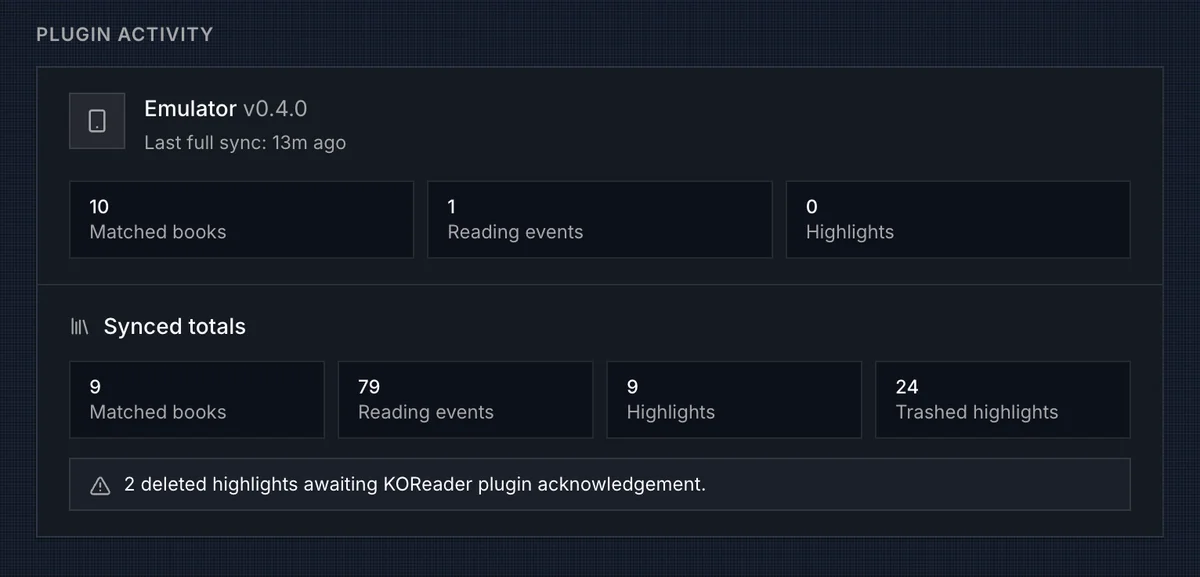
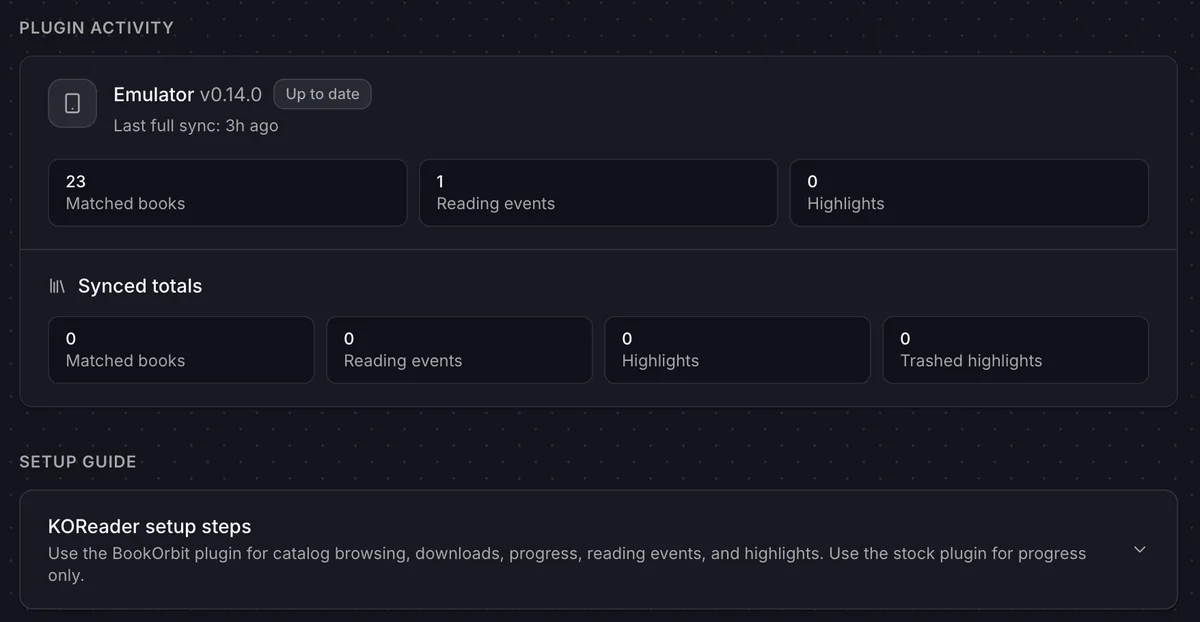
docs(koreader,hardcover): add new feature screenshots and update content
koreader: add Library Browser section documenting catalog browsing (root,
book list, book detail), update plugin menu table with Browse library and
update checker, refresh all screenshots to current UI, add Highlight Sync
and Reading Log screenshots showing KOReader source badges, Approximate
annotation flag, and session breakdown bar.

hardcover: document Book sync scope setting (all eligible vs selected
only), add Pull Read Status section with preview workflow and category
table (Ready/Review/Conflicts/Unmatched/Skipped), fix Skipped and
Conflicts descriptions to match code behavior, add troubleshooting rows
for new features.

diff --git a/docs/koreader.md b/docs/koreader.md
@@ -2,11 +2,11 @@
 
 KOReader sync starts with a small account in BookOrbit, then becomes a background conversation between the reader and the library. The device reports where you are, what you read, and which highlights changed. BookOrbit matches that back to the book file, updates the book page, and keeps enough state to send newer changes back on the next sync.
 
-Use the BookOrbit KOReader plugin when you want progress, reading sessions, highlights, annotation deletes, ratings, and read status.
+Use the BookOrbit KOReader plugin when you want progress, reading sessions, highlights, annotation deletes, ratings, read status, and catalog browsing directly on the device.
 
 ## The Account
 
-<img src="/images/koreader/settings-status.webp" alt="KOReader Sync status card with enabled progress sync and synced device counts" class="img-lg img-bordered" />
+<img src="/images/koreader/settings-status.webp" alt="KOReader Sync settings page showing progress sync toggle, credentials, sync server URL, plugin download, and paired device" class="img-lg img-bordered" />
 
 The KOReader account is separate from the normal BookOrbit login. A user with `koreader_sync` creates one username and password in **Settings > Integrations > KOReader**. That account belongs to the same BookOrbit user, so every sync request is still scoped to that user's accessible libraries and permissions.
 
@@ -20,9 +20,7 @@ If the BookOrbit user is disabled or loses `koreader_sync`, the KOReader credent
 
 ## Installing The Plugin
 
-<img src="/images/koreader/settings-setup.webp" alt="KOReader Sync setup area with sync server URL, plugin download, and synced device" class="img-lg img-bordered" />
-
-After credentials exist, BookOrbit shows the sync server URL and a **Download Plugin** button. The download is a preconfigured `bookorbit.koplugin.zip`; it includes the BookOrbit origin, username, and KOReader-compatible password key so you do not have to type them on the device.
+After credentials exist, the KOReader Sync page shows the sync server URL and a **Download Plugin** button. The download is a preconfigured `bookorbit.koplugin.zip`; it includes the BookOrbit origin, username, and KOReader-compatible password key so you do not have to type them on the device. The page also shows the latest available plugin version and notes that device-side updates can be applied from within KOReader once the plugin is installed.
 
 Install it like a normal KOReader plugin:
 
@@ -50,20 +48,47 @@ When a book matches, the plugin can send progress, page statistics, book state, 
 For reliable sync, put the BookOrbit-managed copy of the book on the KOReader device. A manually copied file can still match if it produces the same KOReader fingerprint BookOrbit scanned, but a converted, edited, re-zipped, or metadata-rewritten copy will usually have a different identity and will not sync to that BookOrbit book.
 :::
 
-<img src="/images/koreader/koreader-plugin-settings.webp" alt="KOReader BookOrbit plugin panel with auto sync, two-way highlight sync, periodic sync, and manual sync actions" class="img-md img-bordered" />
+<img src="/images/koreader/koreader-plugin-settings.webp" alt="KOReader BookOrbit plugin menu showing Browse library, auto sync, highlight sync, periodic sync, manual sync actions, and plugin version" class="img-md img-bordered" />
 
-The device-side panel is where you control live sync for the open book and start manual syncs.
+The device-side panel controls both sync behavior and catalog access. The top of the menu has account-level actions; the sync options below apply to the currently open book.
 
 | Option | Behavior |
 |--------|----------|
+| **Browse library** | Opens the catalog browser to navigate, search, and download books from your BookOrbit library without leaving KOReader. |
 | **Auto sync this book** | Pulls progress when a book opens. On close or suspend, uploads the open book's progress, highlights, status, rating, and reading time. |
 | **Two-way highlight sync** | Also applies BookOrbit highlight, note, and delete changes back to KOReader. When off, local KOReader highlight changes still upload. |
 | **Periodically sync every # pages** | Pushes progress after the configured number of page turns, once reading has been idle briefly. Set it to `0` to disable page-turn progress pushes. |
 | **Sync behavior** | Sets separate choices for **Sync to a newer state** and **Sync to an older state**: apply silently, prompt first, or never move. |
 | **Sync this book now** | Runs the full open-book sync immediately: progress, reading events, highlights, status, and rating. |
 | **Sync all books now** | Runs a manual device sweep across matched books from KOReader history, statistics, and sidecar files. |
+| **Installed plugin: vX.X.X (Check for update)** | Shows the installed version and checks BookOrbit for a newer plugin package. A tap downloads and applies the update in place. |
 
 Full-library sweeps are manual. They are useful after installing the plugin on a device that already has reading history, but they still only upload files KOReader can fingerprint and BookOrbit can match. If an old sidecar file reports stale progress, BookOrbit records the device state without rolling the shared book progress backward.
+
+## Library Browser
+
+<img src="/images/koreader/catalog-root.webp" alt="KOReader BookOrbit catalog browser showing Continue reading, Recently added, Libraries, Collections, SmartScopes, Authors, Series, All Books, and On device" class="img-md img-bordered" />
+
+**Browse library** opens a native catalog browser connected to your BookOrbit library. It authenticates with the same KOReader credentials and lets you navigate, search, and download books entirely from within KOReader.
+
+The root view lists entry points: Continue reading, Recently added, Libraries, Collections, SmartScopes, Authors, Series, All Books, and On device. Tap any row to open that section. The magnifier in the title bar opens a search box for full-text title and author search across your library.
+
+<img src="/images/koreader/catalog-books.webp" alt="KOReader BookOrbit catalog mosaic grid showing book covers with sort and view options menu open" class="img-md img-bordered" />
+
+Tap the menu icon in the title bar of a book list to open view and sort controls.
+
+| Control | What it does |
+|---------|--------------|
+| **Sort** | Choose from Title, Author, Recently added, Recently updated, Recently read, or Series order. |
+| **Reverse** | Flip the sort direction. |
+| **Read status** | Filter by reading, finished, abandoned, or unread. |
+| **Format** | Filter by file format. |
+| **View: Mosaic / List** | Switch between cover grid and compact list. |
+| **Grid size** | Adjust the number of columns and rows in the mosaic. |
+
+<img src="/images/koreader/catalog-detail.webp" alt="KOReader BookOrbit catalog book detail page showing cover, metadata, and Download button" class="img-md img-bordered" />
+
+Tap a book to open its detail page with the cover, author, series, year, publisher, page count, library, genres, and description. Tap **Download** to save the file to the device. The title-bar menu on the detail page also lets you set the read status without opening a browser. The **On device** category in the root menu lists books already downloaded so you can find local files at a glance.
 
 ## Three-Way Sync
 
@@ -75,9 +100,9 @@ Kobo-side return sync depends on Kobo settings and KEPUB delivery. If Kobo is se
 
 ## What Comes Back To BookOrbit
 
-<img src="/images/koreader/settings-activity.webp" alt="KOReader Plugin Activity section with matched books, reading events, highlights, and pending delete count" class="img-lg img-bordered" />
+<img src="/images/koreader/settings-activity.webp" alt="KOReader Plugin Activity section showing device with up-to-date version badge, matched books, reading events, highlights, and synced totals" class="img-lg img-bordered" />
 
-The settings page becomes useful after the first book sync or full sweep. **Devices** shows the last device progress update and the last book title seen from that device. **Plugin Activity** shows the richer plugin path: matched books, reading events, highlights, trashed highlights, pending deletes, failed positions, and the plugin version that reported the last full sweep.
+The settings page becomes useful after the first book sync or full sweep. **Devices** shows the last device progress update and the last book title seen from that device. **Plugin Activity** shows the richer plugin path: for each device, the plugin version with an up-to-date or update-available badge, the last full sync time, matched books, reading events, and highlights. A **Synced totals** summary below that shows aggregate counts across all devices. A **Setup Guide** section at the bottom walks through pairing steps for new users.
 
 BookOrbit stores several kinds of KOReader state:
 
@@ -105,7 +130,11 @@ KOReader-to-BookOrbit restore is usually the most exact path because it starts w
 
 ## Highlight Sync
 
+<img src="/images/koreader/koreader-highlights.webp" alt="BookOrbit Highlights tab showing KOReader annotations with source badge, Approximate flag, color filter panel, and date range filter" class="img-lg img-bordered" />
+
 Highlight sync is bidirectional with the BookOrbit plugin. Highlights, notes, style changes, and deletes made in KOReader can appear in [BookOrbit annotations](./annotations), and BookOrbit annotation changes can return to KOReader on the next sync.
+
+KOReader annotations appear in the Highlights tab with a **KOReader** source badge. Highlights that BookOrbit could not place at an exact text position are tagged **Approximate** - the text is preserved, but the anchor is best-effort. The Highlights tab lets you filter by color, highlight style, and date range so you can work with large annotation sets from multiple sources.
 
 BookOrbit keeps enough device state to avoid turning edits or moved highlights into duplicates. Deletes are also tracked until the device confirms that it applied them, which is why the settings page can show pending deleted highlights.
 
@@ -113,7 +142,9 @@ Colors and highlight styles are mapped between KOReader and BookOrbit palettes. 
 
 ## Reading Log And Book Pages
 
-KOReader sessions appear in the same reading log as manual and web-reader sessions, with `KOReader` as the source. Progress from KOReader also appears on book details as a KOReader progress source when the user has `koreader_sync`.
+<img src="/images/koreader/koreader-reading-log.webp" alt="BookOrbit Reading Log showing reading sessions with KOReader and Web source badges, progress journey chart, and activity heatmap" class="img-lg img-bordered" />
+
+KOReader sessions appear in the same reading log as manual and web-reader sessions, with `KOReader` as the source. The Reading Log tab shows a **Where you read this book** breakdown bar that splits total reading time across BookOrbit, KOReader, and Kobo sources, so you can see at a glance how much of a book came from the device. Progress from KOReader also appears on book details as a KOReader progress source when the user has `koreader_sync`.
 
 On a book page, BookOrbit keeps the canonical progress source by timestamp. If KOReader has the newest update, the KOReader percentage and chapter are shown. If the web reader is newer, the web-reader progress remains canonical. BookOrbit also records when a file was modified after the last KOReader sync so stale device state can be surfaced.
 
@@ -135,3 +166,6 @@ Deleting credentials removes the KOReader account and disconnects paired devices
 | Highlights do not move both ways | Enable **Two-way highlight sync** in the KOReader BookOrbit sync panel and run another sync for the book. |
 | Deleted highlights remain pending | Sync the KOReader device again so it can acknowledge the delete. Pending deletes are kept until the device reports that it applied them. |
 | Restore lands near the chapter, not the exact line | BookOrbit may only have an approximate translated position for that direction. Open and sync the book once from KOReader to store a native KOReader position. |
+| Catalog browser shows no books | Confirm the device can reach the BookOrbit server and the user can access at least one library. The catalog uses the same KOReader credentials as sync. |
+| Catalog download fails | Check available storage on the KOReader device and confirm the file format is supported. |
+| Plugin update check finds nothing | The check runs against the BookOrbit server the plugin is configured against. Confirm the server is reachable and is running a version that ships the newer plugin. |

diff --git a/docs/hardcover.md b/docs/hardcover.md
@@ -1,6 +1,6 @@
 # Hardcover Sync
 
-Hardcover sync pushes BookOrbit reading data into a user's Hardcover account. It can update read status, reading dates, progress, rating, and privacy for books that BookOrbit can match to Hardcover.
+Hardcover sync pushes BookOrbit reading data into a user's Hardcover account. It can update read status, reading dates, progress, rating, and privacy for books that BookOrbit can match to Hardcover. You can also pull read status back from Hardcover to fill in blank BookOrbit entries.
 
 The integration is user-scoped. Each BookOrbit user connects their own Hardcover API token, chooses which changes should trigger sync, and gets their own cached match state.
 
@@ -10,12 +10,13 @@ The integration is user-scoped. Each BookOrbit user connects their own Hardcover
 
 Start by giving the user the `hardcover_sync` permission. That permission opens **Settings > Integrations > Hardcover** and allows that user to call the Hardcover sync endpoints.
 
-<img src="/images/hardcover/settings-connection.webp" alt="Hardcover connection settings with a configured account" class="img-lg img-bordered" />
+<img src="/images/hardcover/settings-connection.webp" alt="Hardcover settings page showing connection status, API token, book sync scope, and sync trigger toggles" class="img-lg img-bordered" />
 
 Paste the user's Hardcover API token from `hardcover.app/account/api`, optionally validate it, then save. BookOrbit strips a leading `Bearer` prefix if you paste one. The token is stored for that user and is not shown back in the UI.
 
 | Setting | Behavior |
 |---------|----------|
+| **Book sync scope** | **All eligible books** syncs everything unless a book is individually excluded. **Selected books only** opts in per book and skips everything else. |
 | **Enable sync** | Pauses or resumes this user's Hardcover integration without deleting the token. |
 | **Sync on status change** | Queues sync when a book status changes. |
 | **Sync on progress update** | Queues sync when BookOrbit progress changes or a reading session is saved. KOReader progress enters through this path after it updates BookOrbit. |
@@ -70,13 +71,35 @@ Changes for the same user and book are debounced briefly, then serialized per us
 
 ## Manual Sync
 
-<img src="/images/hardcover/manual-sync.webp" alt="Hardcover manual sync card showing pending count and last synced time" class="img-lg img-bordered" />
+<img src="/images/hardcover/manual-sync.webp" alt="Hardcover manual sync card showing pending count and Sync now button" class="img-lg img-bordered" />
 
 Manual sync is the catch-up button. Use it after first setup, after importing a library, after fixing metadata matches, or after turning sync back on.
 
 The pending count is local: it counts eligible books whose BookOrbit status, progress, rating, or dates differ from the last recorded sync attempt. It is not a matching report. A book can fail with `no_match`, stop appearing as pending because nothing changed afterward, then become pending again after you save a correct Hardcover ID.
 
 Manual sync streams progress while it runs and can be cancelled from the settings page.
+
+## Pull Read Status
+
+<img src="/images/hardcover/pull-read-status.webp" alt="Pull read status card showing preview summary with Ready, Review, Conflicts, Unmatched, and Skipped counts and Import ready button" class="img-lg img-bordered" />
+
+Pull read status is the reverse direction: it reads your Hardcover library and fills in **blank or Unread** BookOrbit statuses. Books that already have a non-Unread BookOrbit status are never overwritten.
+
+Tap **Preview** to run a dry-run match against Hardcover. BookOrbit shows a summary of how many books fall into each category before anything is imported.
+
+| Category | Meaning |
+|----------|---------|
+| **Ready** | Exact match found. Safe to import without review. |
+| **Review** | Title and author match found. Confirm the match before importing. |
+| **Conflicts** | A matching BookOrbit book was found but already has a non-Unread status. The existing status is kept. |
+| **Unmatched** | No matching BookOrbit book found for this Hardcover entry. |
+| **Skipped** | Hardcover book has a status BookOrbit does not import (such as Ignored), or multiple BookOrbit books matched the same Hardcover entry. |
+
+After the preview, **Import ready** applies all Ready matches immediately. **Review matches** opens the full import dialog where you can inspect each match, filter by category, and select individual books before importing.
+
+<img src="/images/hardcover/pull-read-status-review.webp" alt="Hardcover import review dialog showing matched books with Hardcover status, BookOrbit status, and progress columns" class="img-lg img-bordered" />
+
+The review dialog shows each book's title and author, the Hardcover status that would be applied, the current BookOrbit status, and how much progress would be imported. The **Import progress** checkbox controls whether reading progress is pulled alongside status. Select the books you want, then tap **Import selected**.
 
 ## KOReader Progress
 
@@ -101,3 +124,6 @@ After KOReader updates BookOrbit, Hardcover uses the same matching rules, progre
 | Book logs or stores `no_match` | Save the correct Hardcover provider ID from metadata search, then sync again. |
 | Wrong Hardcover book is used | Replace the saved Hardcover provider ID with the correct result and run manual sync. |
 | Pending count looks wrong | Pending means local data differs from the last sync attempt, not every book that ever failed. |
+| A book syncs when it should not | If **Book sync scope** is set to Selected books only, confirm the book is not individually included. If set to All eligible books, exclude it from the book's settings. |
+| Pull read status preview shows no Ready books | Most books may already have a non-Unread status in BookOrbit (Conflicts) or no Hardcover match (Unmatched). Check the Conflicts and Unmatched tabs for details. |
+| Pull read status imports wrong status | Use **Review matches** before importing to confirm each match. Conflicts are never imported automatically. |
